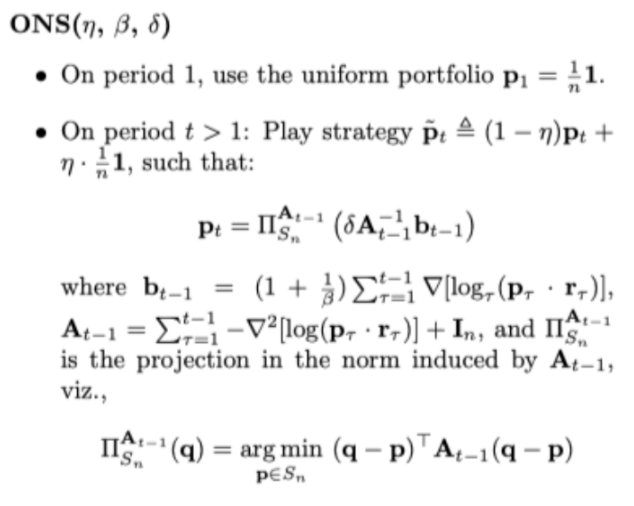
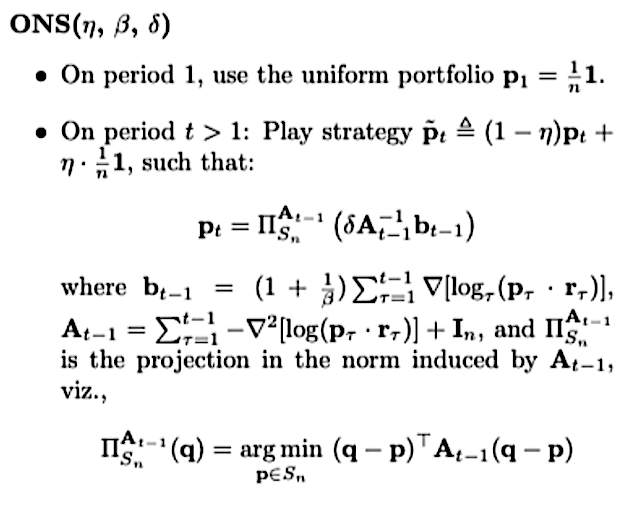
modify readme

diff --git a/README.md b/README.md
@@ -31,9 +31,9 @@ Current available codes include:
 
     * EG(*1998 Mathematical Finance EG*)
 
-      <img src="./Investment-Portfolio/EG.png" alt="截屏2020-07-24上午2.00.37" style="zoom:50%;" />
+      <img src="./Investment-Portfolio/EG.png" alt="截屏2020-07-24上午2.00.37" style="zoom:50%;" width = 600 />
 
     * ONS(*2006 ICML ONS*)
 
-      <img src="./Investment-Portfolio/ONS.png" alt="截屏2020-07-24上午2.00.37" style="zoom:50%;" />
+      <img src="./Investment-Portfolio/ONS.png" alt="截屏2020-07-24上午2.00.37" style="zoom:50%;" width = 600 />
 
